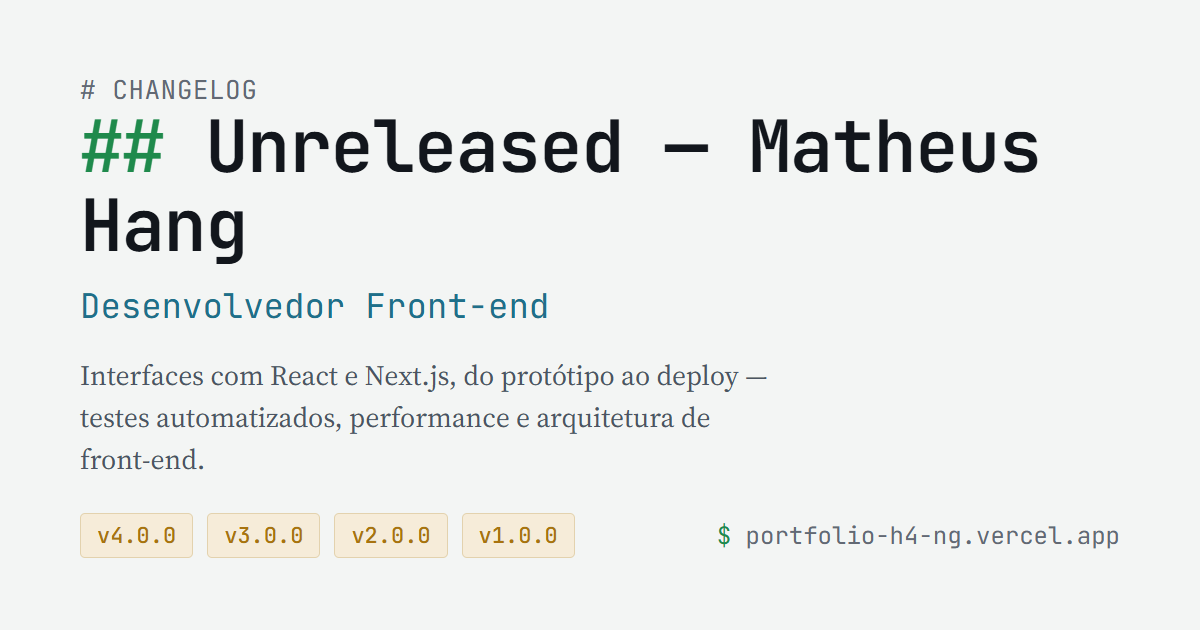
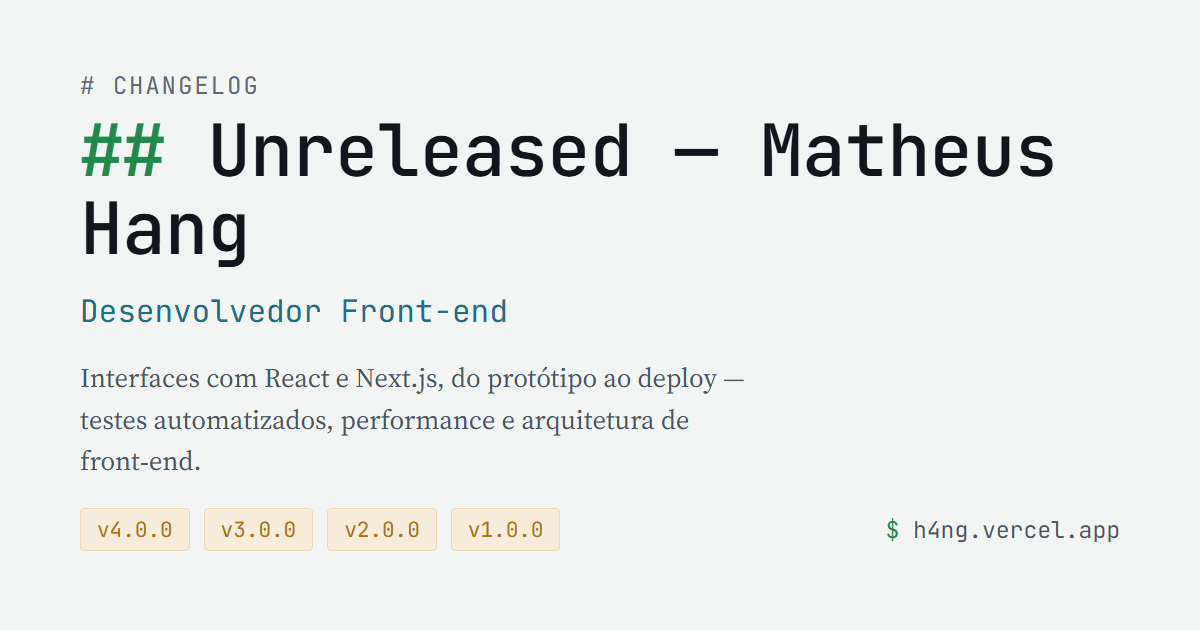
fix: atualiza o domínio na imagem Open Graph para h4ng.vercel.app
A imagem do card de compartilhamento ainda exibia
"$ portfolio-h4-ng.vercel.app" escrito no próprio PNG — as meta tags
já apontavam para o domínio novo, mas o texto da imagem não. Imagem
regenerada com o domínio atual.

A URL da imagem em og:image e twitter:image ganhou ?v=2: LinkedIn e
WhatsApp guardam a imagem pela URL e continuariam exibindo a antiga.

O HTML que gera a imagem passa a ficar em design/og-cover.html (fora de
public/, para não ser publicado), com o comando para regenerá-la.

diff --git a/design/og-cover.html b/design/og-cover.html
@@ -1,0 +1,53 @@
+<!doctype html>
+<!-- Fonte da imagem Open Graph (public/images/og-cover.png, 1200x630).
+     Fica fora de public/ para não ser publicada junto com o site.
+
+     Para regenerar após editar, rode da raiz do projeto (Git Bash). Os
+     caminhos precisam ser absolutos — com relativos o Chrome trava sem
+     gerar nada:
+       chrome --headless=new --hide-scrollbars --force-device-scale-factor=1 \
+         --window-size=1200,630 --virtual-time-budget=8000 \
+         --screenshot="$(pwd -W)/public/images/og-cover.png" \
+         "file:///$(pwd -W)/design/og-cover.html"
+
+     Depois incremente o ?v= de og:image e twitter:image no index.html —
+     LinkedIn e WhatsApp guardam a imagem pela URL e não buscam a nova
+     se ela não mudar. -->
+<html lang="pt-BR">
+<head>
+<meta charset="UTF-8" />
+<link rel="stylesheet" href="https://fonts.googleapis.com/css2?family=JetBrains+Mono:wght@400;500;700&family=Source+Serif+4:opsz,wght@8..60,400&display=block" />
+<style>
+  * { margin: 0; padding: 0; box-sizing: border-box; }
+  html, body { width: 1200px; height: 630px; overflow: hidden; }
+  body {
+    background: #f3f5f4;
+    color: #12161c;
+    font-family: 'JetBrains Mono', monospace;
+    padding: 74px 80px 0;
+  }
+  .kicker { font-size: 24px; letter-spacing: 0.08em; color: #626974; line-height: 1; }
+  h1 { font-size: 72px; font-weight: 500; line-height: 1.08; letter-spacing: -0.01em; margin-top: 14px; }
+  h1 span { color: #1f8a4c; font-weight: 700; }
+  .role { font-size: 31px; color: #1f6f8a; margin-top: 24px; line-height: 1.2; }
+  .desc { font-family: 'Source Serif 4', serif; font-size: 27px; line-height: 1.55; color: #4b5563; max-width: 700px; margin-top: 28px; }
+  .footer { display: flex; justify-content: space-between; align-items: center; margin-top: 26px; }
+  .tags { display: flex; gap: 14px; }
+  .tag { font-size: 21px; color: #a8730f; background: #f6ecd9; border: 1px solid #ecd9b3; border-radius: 4px; padding: 10px 16px; line-height: 1; }
+  .url { font-size: 23px; color: #4b5563; }
+  .url span { color: #1f8a4c; }
+</style>
+</head>
+<body>
+  <p class="kicker"># CHANGELOG</p>
+  <h1><span>##</span> Unreleased — Matheus Hang</h1>
+  <p class="role">Desenvolvedor Front-end</p>
+  <p class="desc">Interfaces com React e Next.js, do protótipo ao deploy — testes automatizados, performance e arquitetura de front&#8209;end.</p>
+  <div class="footer">
+    <div class="tags">
+      <span class="tag">v4.0.0</span><span class="tag">v3.0.0</span><span class="tag">v2.0.0</span><span class="tag">v1.0.0</span>
+    </div>
+    <p class="url"><span>$</span> h4ng.vercel.app</p>
+  </div>
+</body>
+</html>

diff --git a/index.html b/index.html
@@ -39,7 +39,7 @@
     />
     <meta property="og:url" content="https://h4ng.vercel.app/" />
     <meta property="og:locale" content="pt_BR" />
-    <meta property="og:image" content="https://h4ng.vercel.app/images/og-cover.png" />
+    <meta property="og:image" content="https://h4ng.vercel.app/images/og-cover.png?v=2" />
     <meta property="og:image:width" content="1200" />
     <meta property="og:image:height" content="630" />
     <meta property="og:image:alt" content="Portfólio de Matheus Hang, desenvolvedor front-end" />
@@ -50,7 +50,7 @@
       name="twitter:description"
       content="Projetos em React, Next.js e TypeScript, apresentados como um changelog de versões."
     />
-    <meta name="twitter:image" content="https://h4ng.vercel.app/images/og-cover.png" />
+    <meta name="twitter:image" content="https://h4ng.vercel.app/images/og-cover.png?v=2" />
   </head>
   <body>
     <div id="root"></div>
